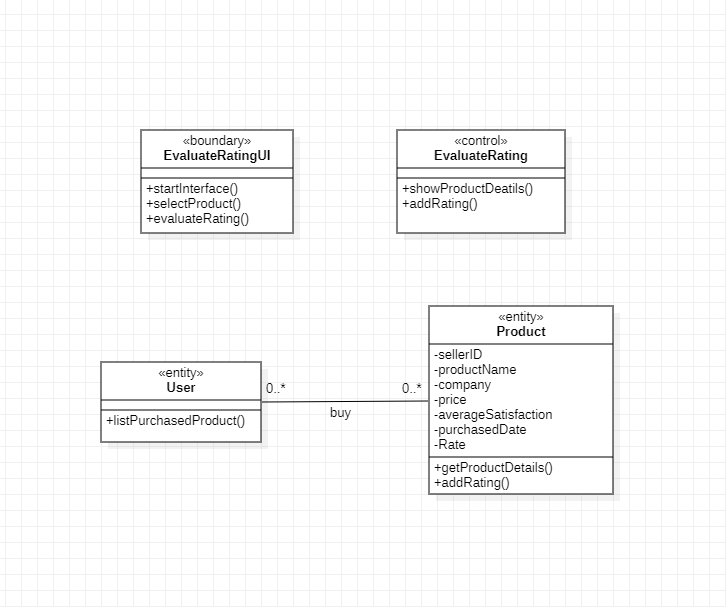
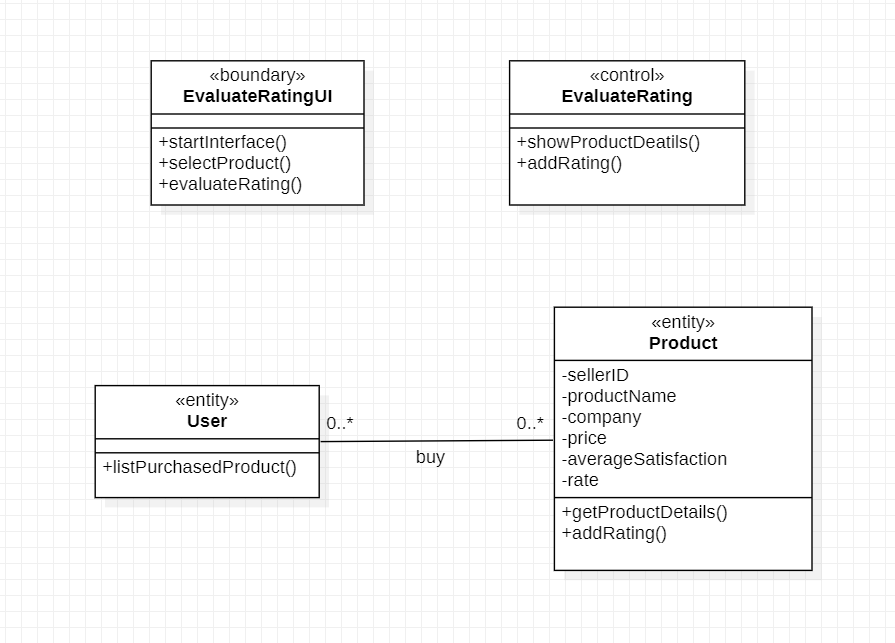
Fix evaluate_rating_class_diagram

diff --git a/dayeon/hw2/README.md b/dayeon/hw2/README.md
@@ -78,4 +78,4 @@
 
 ## 📌 Use Case Class Diagram
 
-<img width="590" alt="check_purchased_list_class_diagram" src="https://user-images.githubusercontent.com/62105312/168971148-68d77c31-90b2-497d-8c91-47722cb5ede6.png">
+<img width="590" alt="check_purchased_list_class_diagram" src="https://user-images.githubusercontent.com/62105312/169042486-d925e61d-6077-4217-842f-03311405e765.png">
